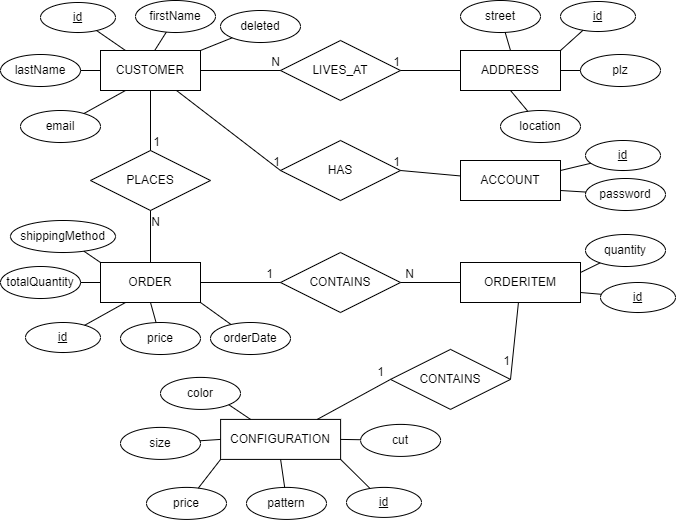
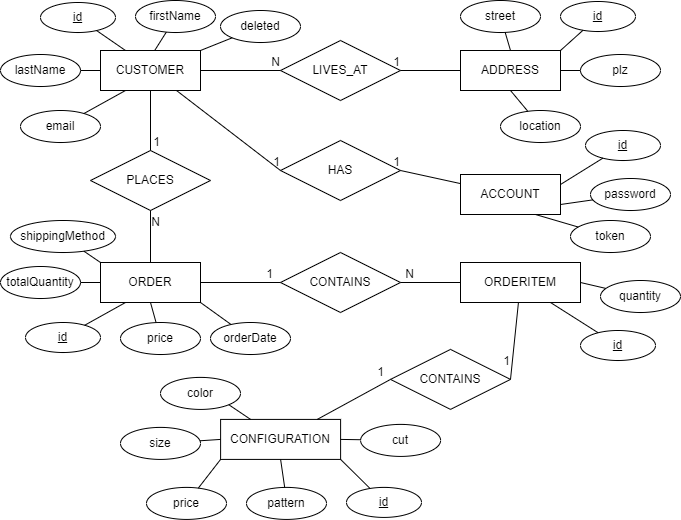
Updated README with Token details

diff --git a/README.md b/README.md
@@ -34,7 +34,7 @@
 - **OrderItem** (<u>id</u>, <u style="border-bottom: 1px dotted; text-decoration: none;">fk_configuration</u>, quantity)
 - **OrderItems** (<u><u style="border-bottom: 1px dotted; text-decoration: none;">
   fk_order</u>, <u style="border-bottom: 1px dotted; text-decoration: none;">fk_orderItem</u></u>)
-- **Account** (<u>id</u>, <u style="border-bottom: 1px dotted; text-decoration: none;">fk_customer</u>, password)
+- **Account** (<u>id</u>, <u style="border-bottom: 1px dotted; text-decoration: none;">fk_customer</u>, password, token)
 
 ***
 
@@ -165,8 +165,21 @@ Grundsätzlicher Aufbau:
         - HTTP-Methode: POST
         - Path: http://localhost:8080/api/account/
         - Parameters: None
-        - Request Body: MessageNewAccount (firstName, lastName, street, plz, location, email, password) - JSON
+        - Request Body: MessageNewAccount (firstName, lastName, street, plz, location, eMail, password) - JSON
         - Response: Account - JSON
+    - Konto anmelden (*login*):
+        - HTTP-Methode: PUT
+        - Path: http://localhost:8080/api/account/login
+        - Parameters: None
+        - Request Body: MessageLogin (eMail, password) - JSON
+        - Response: MessageToken - JSON
+            - MessageToken (token)
+    - Konto abmelden (*logout*):
+        - HTTP-Method: PUT
+        - Path: http://localhost:8080/api/account/logout
+        - Parameters: None
+        - Request Body: MessageToken (token) - JSON
+        - Response: String - JSON
 
 ### Business Logic Layer
 
